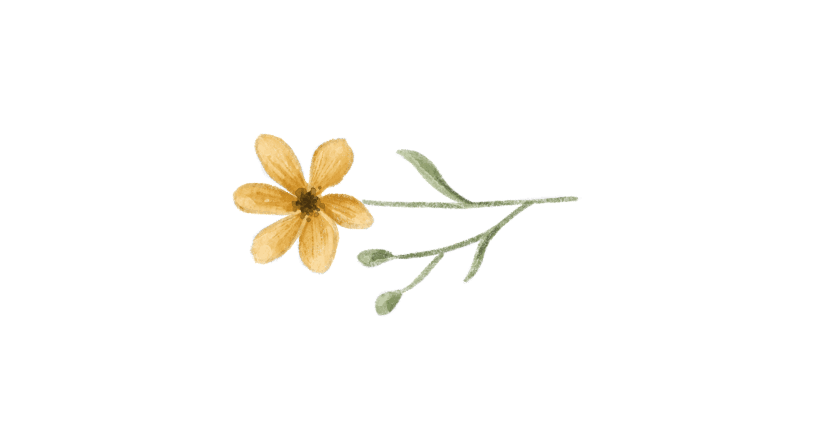
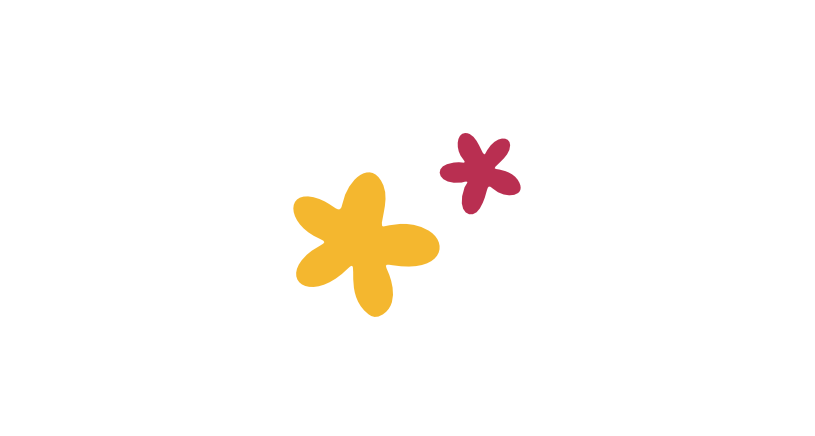
update

Changed region(s): [[0.2761, 0.2982, 0.7055, 0.7454]]

diff --git a/kartki-okolicznosciowe.html b/kartki-okolicznosciowe.html
@@ -147,7 +147,7 @@ src="https://www.facebook.com/tr?id=1981498695990336&ev=PageView&noscript=1"
                         <h6 class="plan-title mbr-fonts-style mb-3 display-4"></h6>
                         <div class="plan-price">
                             <p class="price mbr-fonts-style m-0 display-7"><strong>KARTKI PERSONALIZOWANE</strong></p>
-                            <p class="price-term mbr-fonts-style mb-3 display-7">OD 70 DO 120 ZŁ</p>
+                            <p class="price-term mbr-fonts-style mb-3 display-7">OD 80 DO 130 ZŁ</p>
                         </div>
                     </div>
                     <div class="plan-body">
